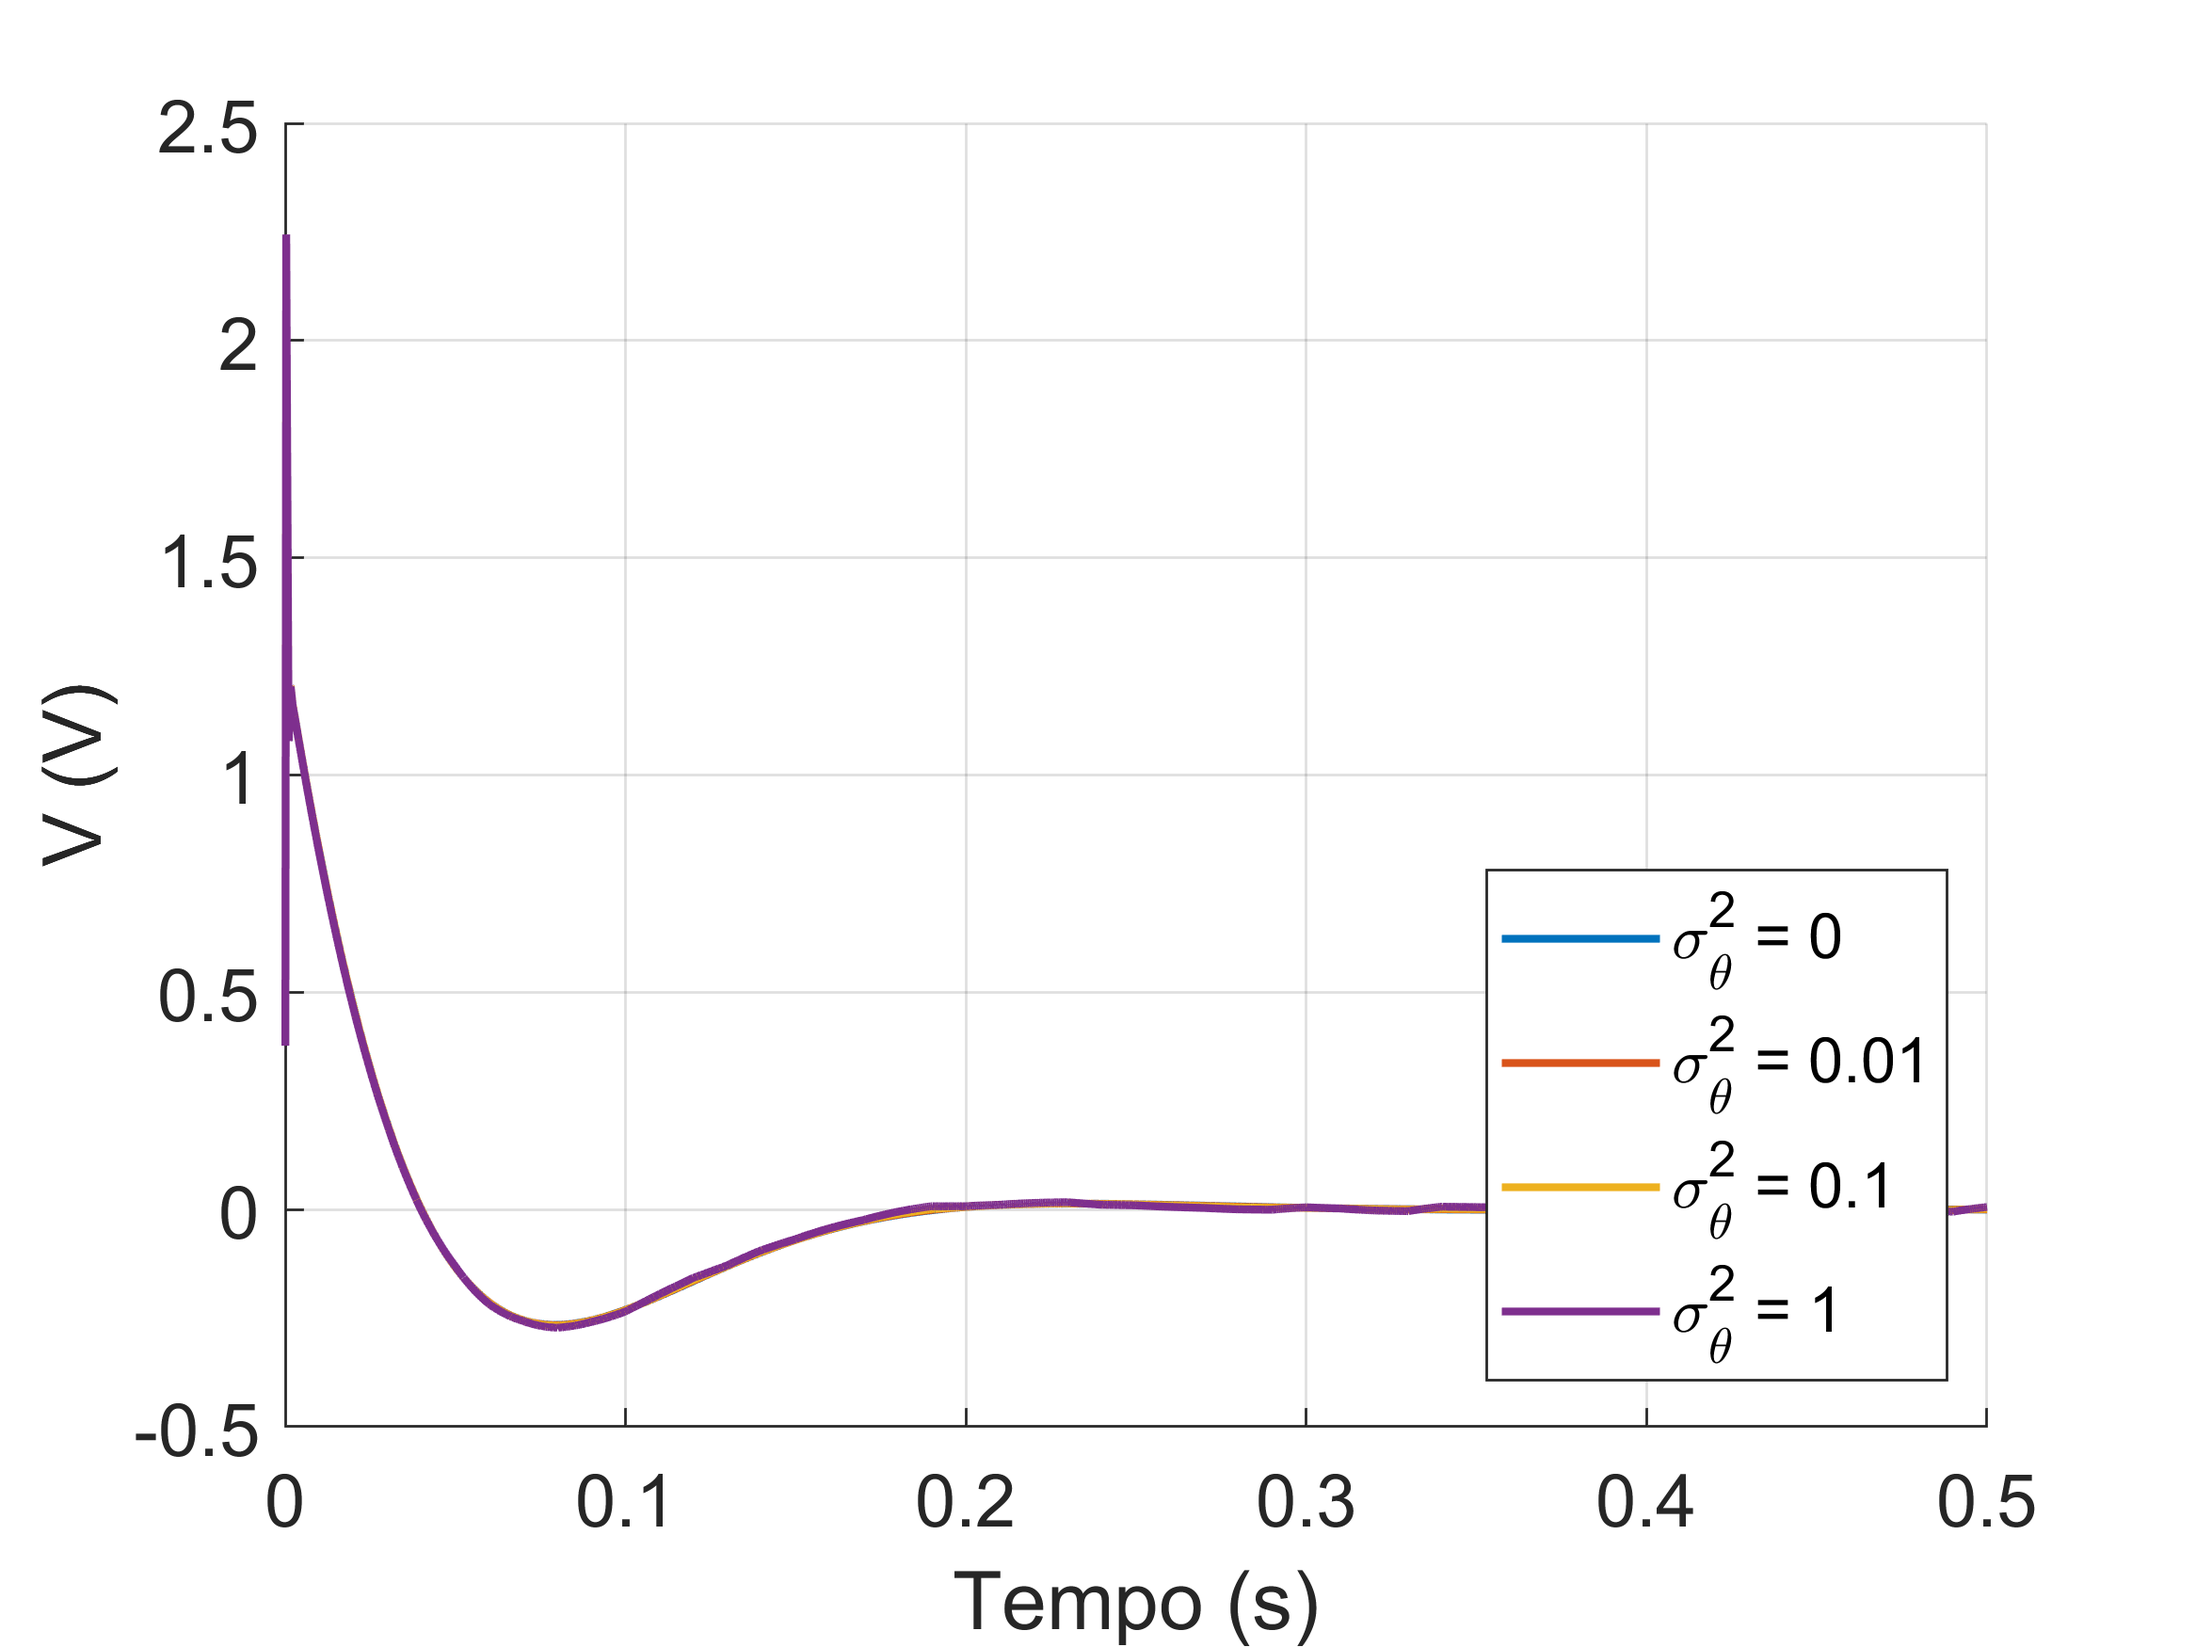
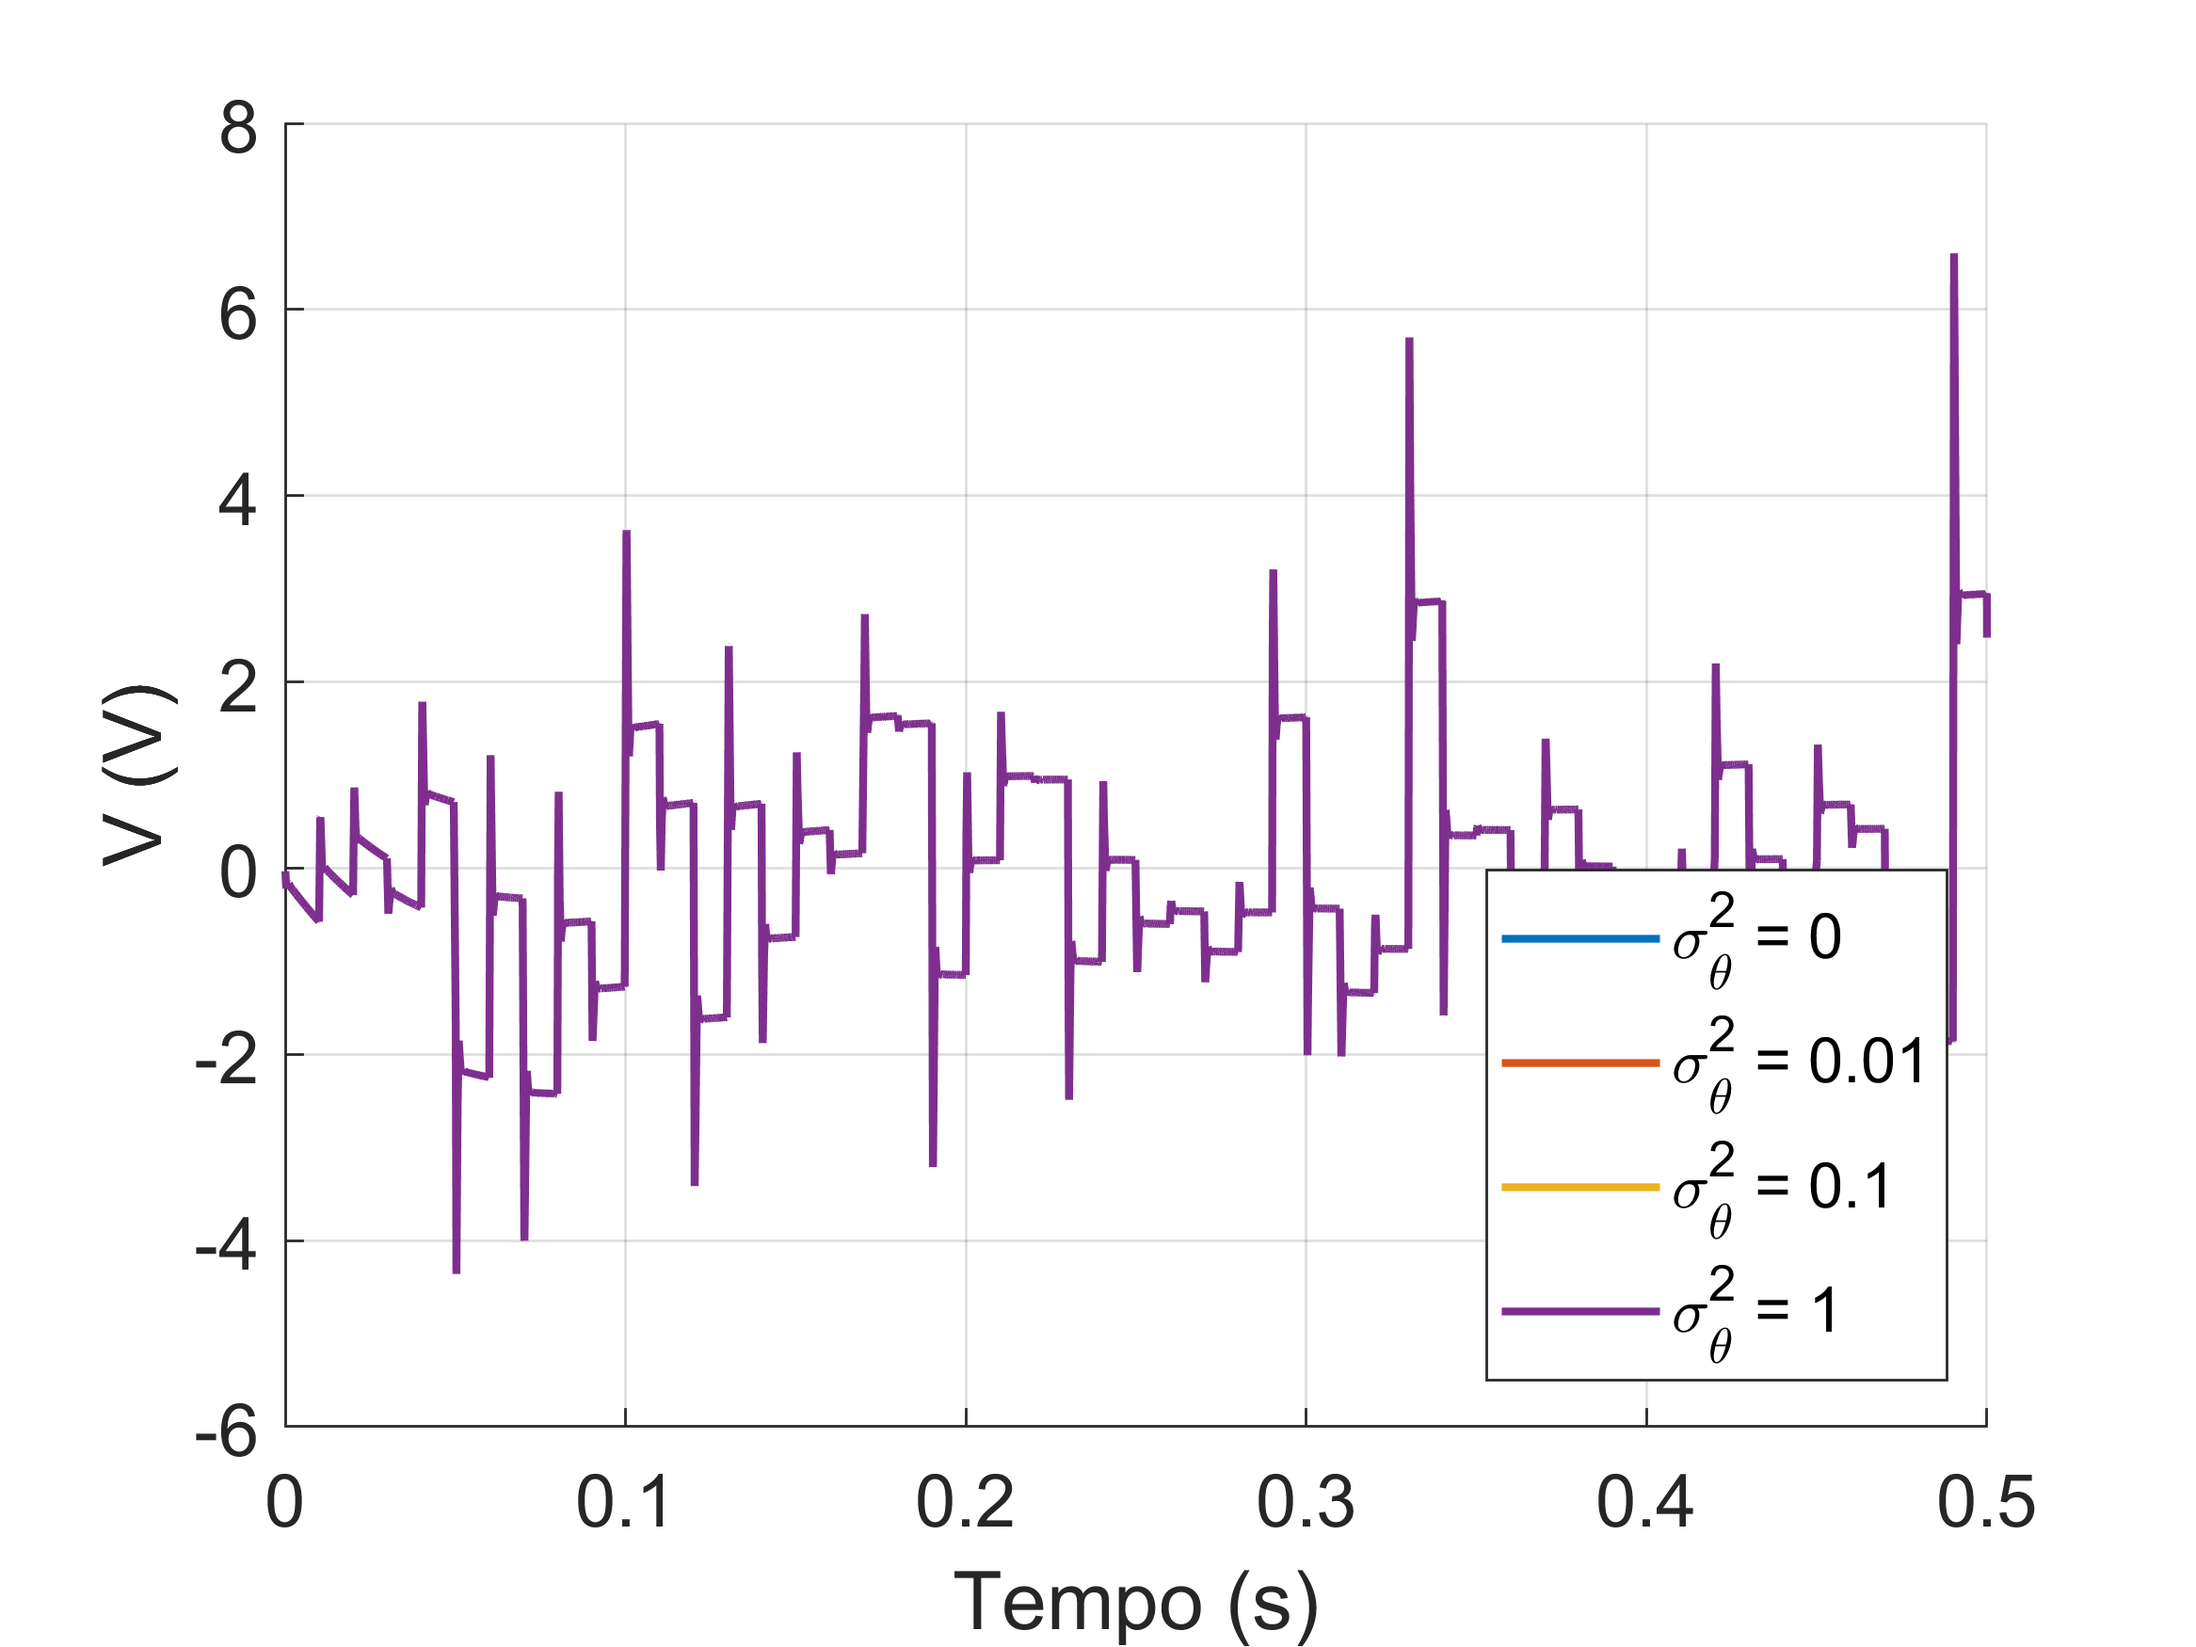
EKF

diff --git a/Exame/lab6/simularRespostaDegrau_EKF_Com_Ruido.m b/Exame/lab6/simularRespostaDegrau_EKF_Com_Ruido.m
@@ -1,0 +1,77 @@
+function simularRespostaDegrau_EKF_Com_Ruido(controlador, planta)
+% simularRespostaDegrau(controlador, planta) simula a resposta ao degrau
+% unitario do servomotor de posicao. A struct controlador eh dada por:
+% controlador.posicao.Kp: ganho proporcional do controlador de posicao.
+% controlador.posicao.Kd: ganho derivativo do controlador de posicao.
+% controlador.posicao.a: frequencia de corte do filtro do termo derivativo.
+% controlador.posicao.T: periodo de amostragem do controlador de posicao.
+% controlador.posicao.ftd: funcao de transferencia discreta do controlador
+%                          de posicao.
+% controlador.corrente.K: ganho proporcional do controlador de corrente.
+% controlador.corrente.alpha: parametro alpha da compensacao lead.
+% controlador.corrente.Tl: parametro Tl da compensacao lead.
+% controlador.corrente.T: tempo de amostragem do controlador de corrente.
+% controlador.corrente.ftd: funcao de transferencia discreta do controlador
+%                          de corrente.
+% A struct planta contem os parametros da planta e pode ser obtida atraves
+% de planta = obterPlantaServoPosicao().
+
+var_thetas = [0, 0.01, 0.1, 1];  % Variâncias do ruído
+tf = 0.5;
+
+% Referência degrau
+thetar.time = [0; tf];
+thetar.signals.values = [1; 1];
+thetar.signals.dimensions = 1;
+
+assignin('base', 'controlador', controlador);
+assignin('base', 'planta', planta);
+assignin('base', 'tf', tf);
+assignin('base', 'thetar', thetar);
+
+% Inicializa as células para cada sinal
+signals = struct('thetal', [], 'thetam', [], 'wl', [], ...
+                 'i', [], 'ic', [], 'V', [], 'Vc', []);
+             
+for i = 1:length(var_thetas)
+    var_theta = var_thetas(i);
+    assignin('base', 'var_theta', var_theta);
+    
+    out = sim('servomotor_posicao_EKF_Com_Ruido_Posicao.slx');
+    
+    signals.thetal{i} = out.thetal;
+    signals.thetam{i} = out.thetam;
+    signals.wl{i}     = out.wl;
+    signals.i{i}      = out.i;
+    signals.ic{i}     = out.ic;
+    signals.V{i}      = out.V;
+    signals.Vc{i}     = out.Vc;
+end
+
+% Legendas e cores
+colors = get(0, 'DefaultAxesColorOrder');
+legs = arrayfun(@(v) sprintf('\\sigma_{\\theta}^2 = %.3g', v), var_thetas, 'UniformOutput', false);
+
+% Função auxiliar para plotar
+plotSignalGroup(signals.thetal, 'Tempo (s)', '\theta_l (rad)', 'degrau_thetal_variancias', legs, colors);
+plotSignalGroup(signals.thetam, 'Tempo (s)', '\theta_m (rad)', 'degrau_thetam_variancias', legs, colors);
+plotSignalGroup(signals.wl, 'Tempo (s)', '\omega_l (rad/s)', 'degrau_wl_variancias', legs, colors);
+plotSignalGroup(signals.i, 'Tempo (s)', 'i (A)', 'degrau_i_variancias', legs, colors);
+plotSignalGroup(signals.ic, 'Tempo (s)', 'i_c (A)', 'degrau_ic_variancias', legs, colors);
+plotSignalGroup(signals.V, 'Tempo (s)', 'V (V)', 'degrau_V_variancias', legs, colors);
+plotSignalGroup(signals.Vc, 'Tempo (s)', 'V_c (V)', 'degrau_Vc_variancias', legs, colors);
+
+end
+
+function plotSignalGroup(signalCell, xlab, ylab, filename, legends, colors)
+    figure;
+    hold on; grid on;
+    for i = 1:length(signalCell)
+        plot(signalCell{i}.time, signalCell{i}.signals.values, 'LineWidth', 1.5, 'Color', colors(i,:));
+    end
+    xlabel(xlab, 'FontSize', 14);
+    ylabel(ylab, 'FontSize', 14);
+    legend(legends, 'FontSize', 12, 'Location', 'Southeast');
+    set(gca, 'FontSize', 14);
+    print(['-dpng'], ['-r400'], [filename, '.png']);
+end

diff --git a/Exame/lab6/servomotorStateFcn.m b/Exame/lab6/servomotorStateFcn.m
@@ -1,0 +1,15 @@
+function dx = servomotorStateFcn(x, u)
+    % Estados
+    theta = x(1);
+    omega = x(2);
+    i = x(3);
+
+    % Entrada
+    V = u;
+
+    % Equações diferenciais
+    dx = zeros(3,1);
+    dx(1) = omega;
+    dx(2) = (planta.Kt*planta.N*planta.eta*i - planta.Beq*omega)/planta.Jeq;
+    dx(3) = (V - planta.R*i - planta.Kt*planta.N*omega)/planta.L;
+end

diff --git a/Exame/lab6/servomotorMeasFcn.m b/Exame/lab6/servomotorMeasFcn.m
@@ -1,0 +1,4 @@
+function y = servomotorMeasFcn(x)
+    % Mede apenas a posição angular (primeiro estado)
+    y = x(1);
+end
